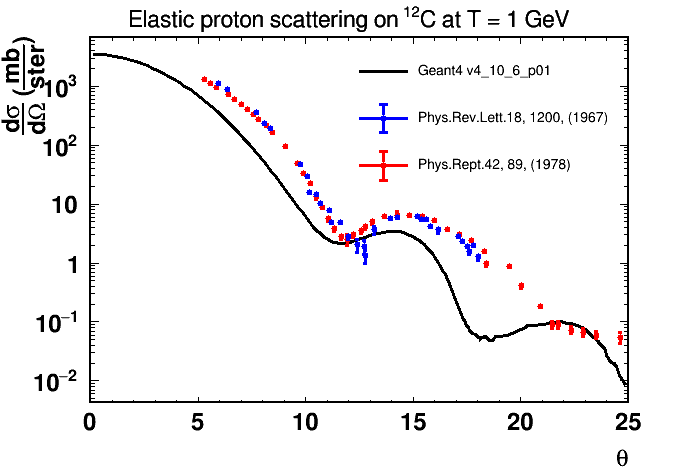
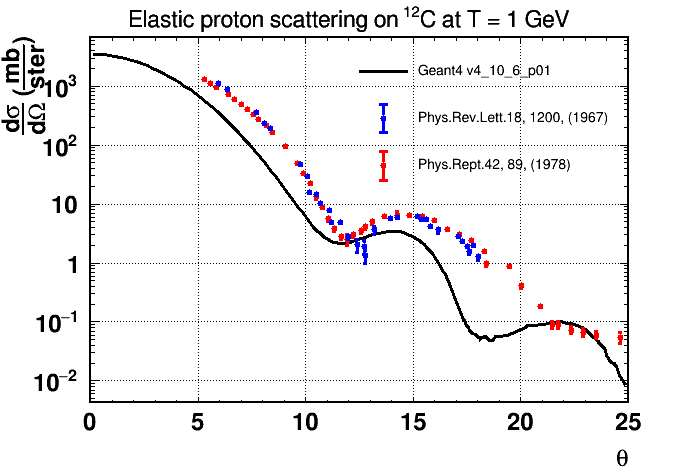
update proton plots.

Changed region(s): [[0.5115, 0.3249, 0.6017, 0.3544], [0.5115, 0.2363, 0.6017, 0.2658]]

diff --git a/scripts/proton/norm.C b/scripts/proton/norm.C
@@ -47,6 +47,8 @@ void norm()
   hist1->GetXaxis()->SetTitle("#theta");
   hist1->Draw("hist c");
   gPad->SetLogy();
+  gPad->SetGridx();
+  gPad->SetGridy();
 
   double sigmaE = 0;
   for (int i = 1; i<=hist1->GetNbinsX(); ++i){
@@ -90,8 +92,8 @@ void norm()
   TLegend *leg = new TLegend(0.5,0.6,0.9,0.9);
   leg->SetFillStyle(0);
   leg->AddEntry(hist1,"Geant4 v4_10_6_p01","l");
-  leg->AddEntry(gr_prl_18_1200,"Phys.Rev.Lett.18, 1200, (1967)","ple");
-  leg->AddEntry(gr,"Phys.Rept.42, 89, (1978)","ple");
+  leg->AddEntry(gr_prl_18_1200,"Phys.Rev.Lett.18, 1200, (1967)","pe");
+  leg->AddEntry(gr,"Phys.Rept.42, 89, (1978)","pe");
   leg->Draw();
 
   c1->Print("../../figures/proton/pC1GeVdiff.png");
